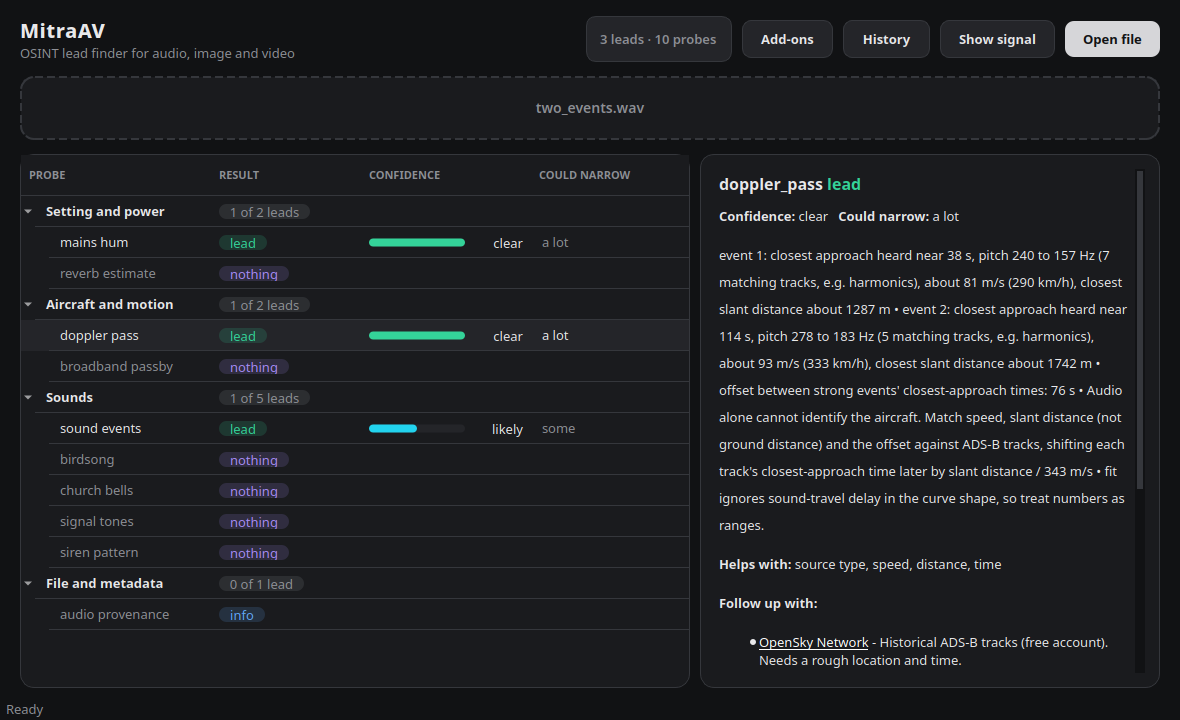
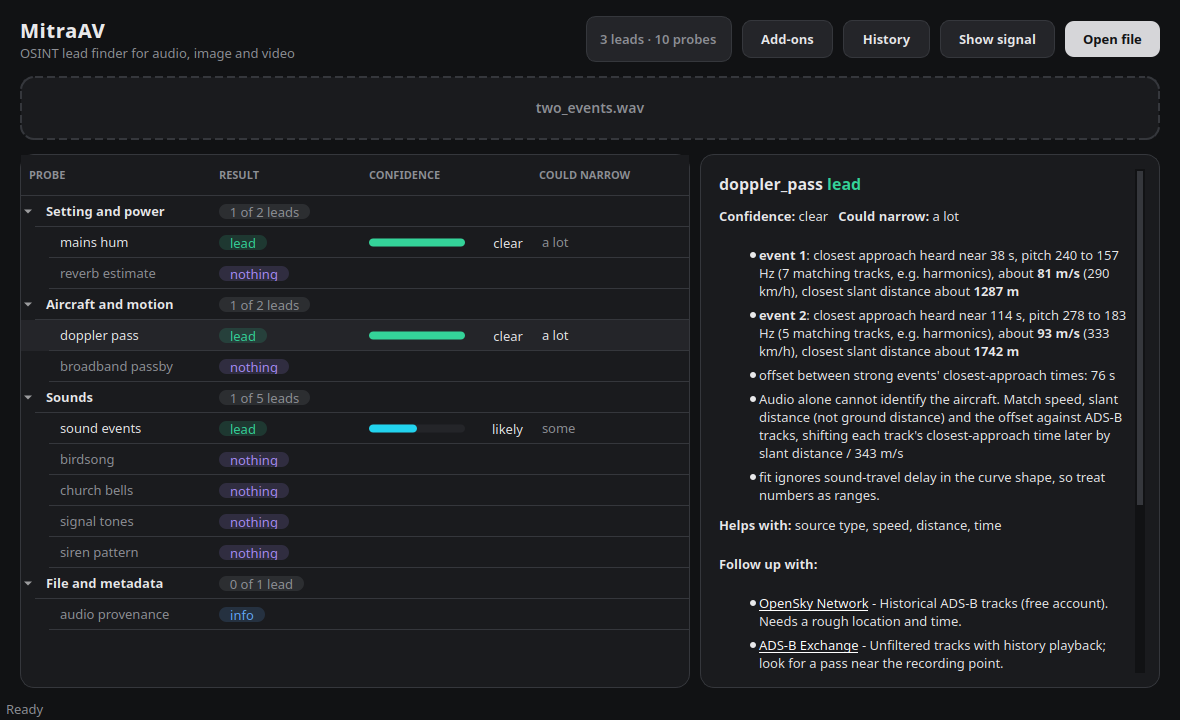
README: image and video examples, work-in-progress notice, updated status
- add bluebell (species ID), cathedral (declines to name a plant from a building) and level-crossing
  train video examples above the audio ones, regenerated from live scans so key words render bold
- add a clear work-in-progress notice under the introduction
- status: CI now covers Python 3.11-3.13
- keeps the owner's wording edit to the introduction

Changed region(s): [[0.6102, 0.3361, 0.9763, 0.7944], [0.6102, 0.825, 0.9458, 0.9472]]

diff --git a/README.md b/README.md
@@ -8,16 +8,46 @@ It is triage: it measures signals and names what it can, offline. It is **not** 
 **no network calls during a scan**, and it is not for identifying private individuals (no face
 recognition, no plate reading, no phone numbers or e-mail addresses echoed back).
 
-![Results grouped by what they tell you](docs/screenshot-results.png)
+> **Work in progress.** MitraAV is under active development. Probes, results, wording and the
+> interface will change as the project develops, and features may be reworked or removed where they
+> don't prove useful. Expect rough edges, and treat every result as a lead, never a conclusion.
+> Feedback and bug reports are very welcome.
+
+### Examples
+
+**A photo of a bluebell wood.** The species probe is consistent with English bluebell
+(*Hyacinthoides non-scripta*, 84%) and links to range maps; the scene type and a reverse-search helper
+sit quietly under "Visual context".
+
+![Image: a species identification with range links](docs/screenshot-image-bluebell.png)
+
+**A photo of a cathedral.** The app declines to name a plant from a building scene (shown as plain
+information, not a lead), and reports the camera tags and how the JPEG was written.
+
+![Image: a building scene where no species is suggested](docs/screenshot-image-cathedral.png)
+
+**A video of a train at a level crossing.** The soundtrack is identified as rail transport, and the
+file-history probes describe the audio and video encoding. Probes that found nothing say so ("nothing").
+
+![Video: soundtrack identification and file history](docs/screenshot-video.png)
+
+**An audio fly-by (synthetic).** Results are grouped by what they tell you; the Doppler probe measures
+speed, closest distance and the time offset between events.
+
+![Audio: results grouped by what they tell you](docs/screenshot-results.png)
+
+**The identified signal**, with labelled axes and a live time and frequency readout.
 
 ![The identified signal, with labelled axes and a live time/frequency readout](docs/screenshot-signal.png)
 
+The screenshots show analysis results only; the photos, video and audio themselves are not included.
+
 ## Status
 
-Alpha. Developed and tested on Linux (Python 3.12 and 3.13); the code avoids newer syntax so it should
-run on 3.11 but that has not been run. Windows and macOS are untested. Probes are tuned on a small
-set of real recordings and photos, so expect false positives and misses: every result is a lead, never
-a conclusion, and the app says so (confidence, "inconclusive" for busy audio, "very low" flags).
+Alpha. Developed on Linux; the test suite runs on Python 3.11, 3.12 and 3.13 in CI. Windows and macOS
+are untested. Probes are tuned on a small set of real recordings and photos, so expect false positives
+and misses: every result is a lead, never a conclusion, and the app says so (confidence,
+"inconclusive" for busy audio, "very low" flags).
 
 ## Install
 
